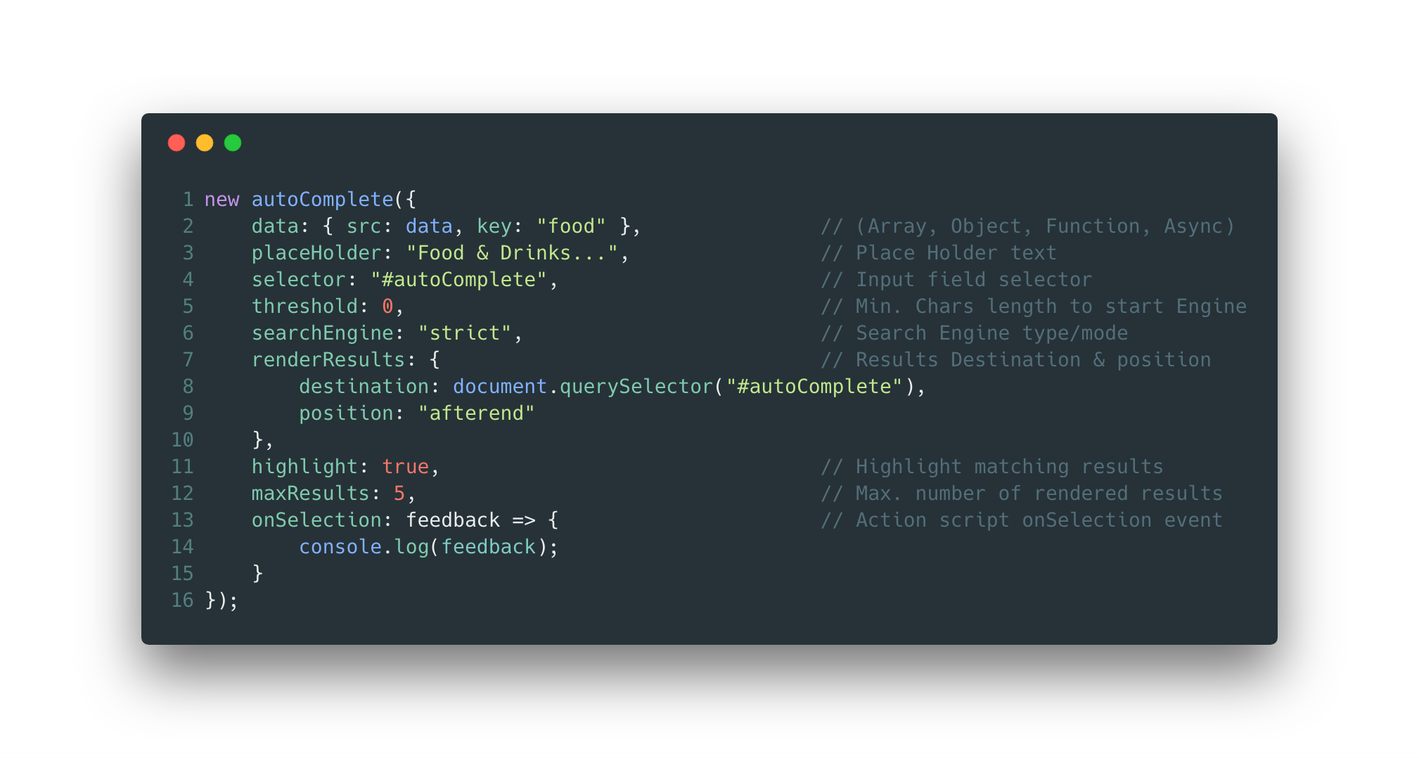
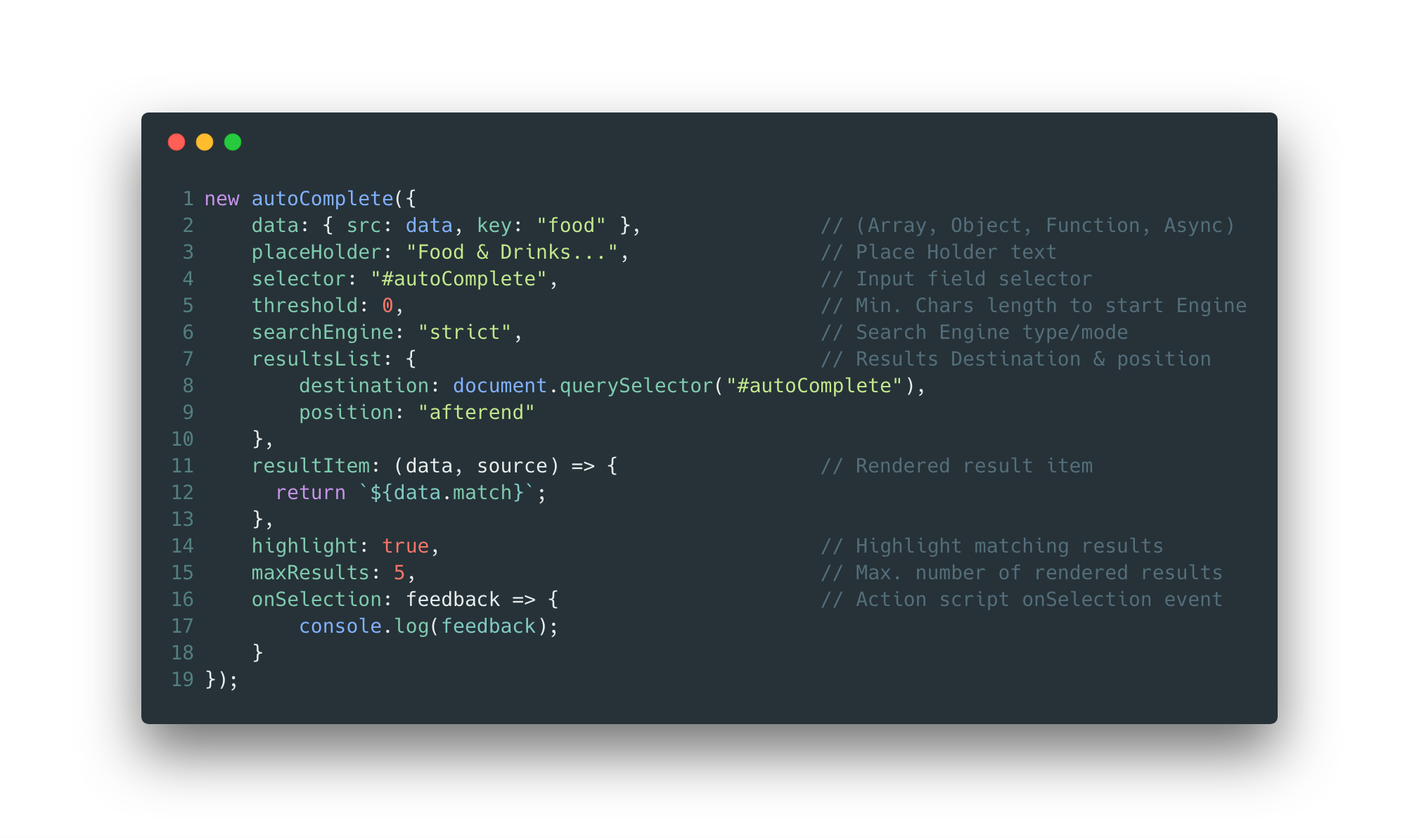
Version 3.0.0 => Release History for details

diff --git a/dist/js/autoComplete.min.js b/dist/js/autoComplete.min.js
@@ -1,1 +1,1 @@
-var a,b;a=this,b=function(){"use strict";function o(e,t){for(var n=0;n<t.length;n++){var i=t[n];i.enumerable=i.enumerable||!1,i.configurable=!0,"value"in i&&(i.writable=!0),Object.defineProperty(e,i.key,i)}}var r,a="data-result",t="autoComplete_results_list",c="autoComplete_result",n="autoComplete_highlighted",u=function(e){return"string"==typeof e?document.querySelector(e):e()},l=function(){return r.innerHTML=""},h=u,s=function(e){(r=document.createElement("ul")).setAttribute("id",t),e.destination.insertAdjacentElement(e.position,r)},d=function(e){return"<span class=".concat(n,">").concat(e,"</span>")},f=function(o,s){o.forEach(function(e,t){var n=document.createElement("li"),i=o[t].source[s]||o[t].source;n.setAttribute(a,i),n.setAttribute("class",c),n.setAttribute("tabindex","1"),n.innerHTML=o[t].match||o[t],r.appendChild(n)})},p=function(e){var n=u(e),i=r.firstChild;document.onkeydown=function(e){var t=document.activeElement;switch(e.keyCode){case 38:t!==i&&t!==n?t.previousSibling.focus():t===i&&n.focus();break;case 40:t===n&&0<r.childNodes.length?i.focus():t!==r.lastChild&&t.nextSibling.focus()}}},v=l,g=function(n,i,o,s){r.querySelectorAll(".".concat(c)).forEach(function(t){["mousedown","keydown"].forEach(function(e){t.addEventListener(e,function(t){"mousedown"!==e&&13!==t.keyCode||(i({event:t,query:u(n).value,results:o.map(function(e){return e.source}),selection:o.find(function(e){return(e.source[s]||e.source)===t.target.closest(".".concat(c)).getAttribute(a)}).source}),l())})})})};return function(){function t(e){!function(e,t){if(!(e instanceof t))throw new TypeError("Cannot call a class as a function")}(this,t),this.selector=e.selector||"#autoComplete",this.data={src:function(){return"function"==typeof e.data.src?e.data.src():e.data.src},key:e.data.key},this.searchEngine="loose"===e.searchEngine?"loose":"strict",this.threshold=e.threshold||0,this.renderResults=s({destination:e.renderResults?e.renderResults.destination:h(this.selector),position:e.renderResults?e.renderResults.position:"afterend"}),this.placeHolder=e.placeHolder,this.maxResults=e.maxResults||5,this.highlight=e.highlight||!1,this.onSelection=e.onSelection,this.init()}var e,n,i;return e=t,(n=[{key:"search",value:function(e,t){var n=this.highlight,i=t.toLowerCase();if("loose"===this.searchEngine){e=e.replace(/ /g,"");for(var o=[],s=0,r=0;r<i.length;r++){var a=i[r];s<e.length&&a===e[s]&&(a=n?d(a):a,s++),o.push(a)}return s===e.length&&o.join("")}if(i.includes(e)&&n){var c=h(this.selector).value.toLowerCase();return i.replace(c,d(c))}}},{key:"listMatchedResults",value:function(e){var n=this,i=[],o=h(this.selector).value.toLowerCase();e.filter(function(e){var t=n.search(o,e[n.data.key]||e);t&&i.push({match:t,source:e})});var t=i.slice(0,this.maxResults);return f(t,this.data.key),p(this.selector),t}},{key:"ignite",value:function(t){var n=this,i=this.selector,o=h(i),e=this.placeHolder,s=this.onSelection;e&&o.setAttribute("placeholder",e),o.onkeyup=function(){v();if(o.value.length>n.threshold&&o.value.replace(/ /g,"").length){var e=n.listMatchedResults(t);s&&g(i,s,e,n.data.key)}}}},{key:"init",value:function(){var t=this,e=this.data.src();e instanceof Promise?e.then(function(e){return t.ignite(e)}):this.ignite(e)}}])&&o(e.prototype,n),i&&o(e,i),t}()},"object"==typeof exports&&"undefined"!=typeof module?module.exports=b():"function"==typeof define&&define.amd?define(b):a.autoComplete=b();
+var a,b;a=this,b=function(){"use strict";function s(e,t){for(var n=0;n<t.length;n++){var i=t[n];i.enumerable=i.enumerable||!1,i.configurable=!0,"value"in i&&(i.writable=!0),Object.defineProperty(e,i.key,i)}}var a,u="data-result",t="autoComplete_results_list",c="autoComplete_result",n="autoComplete_highlighted",r=function(e){return"string"==typeof e?document.querySelector(e):e()},l=function(){return a.innerHTML=""},h=r,o=function(e){(a=document.createElement("ul")).setAttribute("id",t),e.destination.insertAdjacentElement(e.position,a)},f=function(e){return"<span class=".concat(n,">").concat(e,"</span>")},d=function(s,o,r){s.forEach(function(e,t){var n=document.createElement("li"),i=s[t].source[o]||s[t].source;n.setAttribute(u,i),n.setAttribute("class",c),n.setAttribute("tabindex","1"),n.innerHTML=r?r(e,n):e.match||e,a.appendChild(n)})},p=function(e){var n=r(e),i=a.firstChild;document.onkeydown=function(e){var t=document.activeElement;switch(e.keyCode){case 38:t!==i&&t!==n?t.previousSibling.focus():t===i&&n.focus();break;case 40:t===n&&0<a.childNodes.length?i.focus():t!==a.lastChild&&t.nextSibling.focus()}}},v=l,m=function(n,i,s,o){a.querySelectorAll(".".concat(c)).forEach(function(t){["mousedown","keydown"].forEach(function(e){t.addEventListener(e,function(t){"mousedown"!==e&&13!==t.keyCode||(i({event:t,query:r(n).value,results:s.map(function(e){return e.source}),selection:s.find(function(e){return(e.source[o]||e.source)===t.target.closest(".".concat(c)).getAttribute(u)}).source}),l())})})})};return function(){function t(e){!function(e,t){if(!(e instanceof t))throw new TypeError("Cannot call a class as a function")}(this,t),this.selector=e.selector||"#autoComplete",this.data={src:function(){return"function"==typeof e.data.src?e.data.src():e.data.src},key:e.data.key},this.searchEngine="loose"===e.searchEngine?"loose":"strict",this.threshold=e.threshold||0,this.resultsList=o({destination:e.resultsList?e.resultsList.destination:h(this.selector),position:e.resultsList?e.resultsList.position:"afterend"}),this.placeHolder=e.placeHolder,this.maxResults=e.maxResults||5,this.resultItem=e.resultItem,this.highlight=e.highlight||!1,this.onSelection=e.onSelection,this.init()}var e,n,i;return e=t,(n=[{key:"search",value:function(e,t){var n=this.highlight,i=t.toLowerCase();if("loose"===this.searchEngine){e=e.replace(/ /g,"");for(var s=[],o=0,r=0;r<i.length;r++){var a=i[r];o<e.length&&a===e[o]&&(a=n?f(a):a,o++),s.push(a)}return o===e.length&&s.join("")}if(i.includes(e)&&n){var u=h(this.selector).value.toLowerCase();return i.replace(u,f(u))}}},{key:"listMatchedResults",value:function(e){var n=this,i=[],s=h(this.selector).value.toLowerCase();e.filter(function(e){var t=n.search(s,e[n.data.key]||e);t&&i.push({match:t,source:e})});var t=i.slice(0,this.maxResults);return d(t,this.data.key,this.resultItem),p(this.selector),t}},{key:"ignite",value:function(t){var n=this,i=this.selector,s=h(i),e=this.placeHolder,o=this.onSelection;e&&s.setAttribute("placeholder",e),s.onkeyup=function(){v();if(s.value.length>n.threshold&&s.value.replace(/ /g,"").length){var e=n.listMatchedResults(t);o&&m(i,o,e,n.data.key)}}}},{key:"init",value:function(){var t=this,e=this.data.src();e instanceof Promise?e.then(function(e){return t.ignite(e)}):this.ignite(e)}}])&&s(e.prototype,n),i&&s(e,i),t}()},"object"==typeof exports&&"undefined"!=typeof module?module.exports=b():"function"==typeof define&&define.amd?define(b):a.autoComplete=b();

diff --git a/dist/js/autoComplete.js b/dist/js/autoComplete.js
@@ -44,14 +44,14 @@
   var highlight = function highlight(value) {
     return "<span class=".concat(select.highlight, ">").concat(value, "</span>");
   };
-  var addResultsToList = function addResultsToList(dataSrc, dataKey) {
+  var addResultsToList = function addResultsToList(dataSrc, dataKey, callback) {
     dataSrc.forEach(function (event, record) {
       var result = document.createElement("li");
       var resultValue = dataSrc[record].source[dataKey] || dataSrc[record].source;
       result.setAttribute(dataAttribute, resultValue);
       result.setAttribute("class", select.result);
       result.setAttribute("tabindex", "1");
-      result.innerHTML = dataSrc[record].match || dataSrc[record];
+      result.innerHTML = callback ? callback(event, result) : event.match || event;
       resultsList.appendChild(result);
     });
   };
@@ -127,12 +127,13 @@
       };
       this.searchEngine = config.searchEngine === "loose" ? "loose" : "strict";
       this.threshold = config.threshold || 0;
-      this.renderResults = autoCompleteView.createResultsList({
-        destination: config.renderResults ? config.renderResults.destination : autoCompleteView.getInput(this.selector),
-        position: config.renderResults ? config.renderResults.position : "afterend"
+      this.resultsList = autoCompleteView.createResultsList({
+        destination: config.resultsList ? config.resultsList.destination : autoCompleteView.getInput(this.selector),
+        position: config.resultsList ? config.resultsList.position : "afterend"
       });
       this.placeHolder = config.placeHolder;
       this.maxResults = config.maxResults || 5;
+      this.resultItem = config.resultItem;
       this.highlight = config.highlight || false;
       this.onSelection = config.onSelection;
       this.init();
@@ -183,7 +184,7 @@
           }
         });
         var list = resList.slice(0, this.maxResults);
-        autoCompleteView.addResultsToList(list, this.data.key);
+        autoCompleteView.addResultsToList(list, this.data.key, this.resultItem);
         autoCompleteView.navigation(this.selector);
         return list;
       }

diff --git a/src/models/autoComplete.js b/src/models/autoComplete.js
@@ -14,16 +14,18 @@ export default class autoComplete {
 		// Minimum characters length before engine starts rendering
 		this.threshold = config.threshold || 0;
 		// Rendered results destination
-		this.renderResults = autoCompleteView.createResultsList({
-			destination: config.renderResults
-				? config.renderResults.destination
+		this.resultsList = autoCompleteView.createResultsList({
+			destination: config.resultsList
+				? config.resultsList.destination
 				: autoCompleteView.getInput(this.selector),
-			position: config.renderResults ? config.renderResults.position : "afterend"
+			position: config.resultsList ? config.resultsList.position : "afterend"
 		});
 		// Placeholder text
 		this.placeHolder = config.placeHolder;
 		// Maximum number of results to show
 		this.maxResults = config.maxResults || 5;
+		//
+		this.resultItem = config.resultItem;
 		// Highlighting matching results
 		this.highlight = config.highlight || false;
 		// Action function on result selection
@@ -96,7 +98,7 @@ export default class autoComplete {
 		});
 		const list = resList.slice(0, this.maxResults);
 		// Rendering matching results to the UI list
-		autoCompleteView.addResultsToList(list, this.data.key);
+		autoCompleteView.addResultsToList(list, this.data.key, this.resultItem);
 		// Keyboard Arrow Navigation
 		autoCompleteView.navigation(this.selector);
 		// Returns rendered list
@@ -116,8 +118,6 @@ export default class autoComplete {
 		if (placeHolder) {
 			input.setAttribute("placeholder", placeHolder);
 		}
-		// Creates Results List
-		// autoCompleteView.createResultsList(this.renderResults);
 		// Input field handler fires an event onKeyup action
 		input.onkeyup = () => {
 			// Clear Results function holder

diff --git a/src/views/autoCompleteView.js b/src/views/autoCompleteView.js
@@ -20,14 +20,14 @@ const createResultsList = renderResults => {
 const highlight = value => `<span class=${select.highlight}>${value}</span>`;
 
 // Adding matching results to the list
-const addResultsToList = (dataSrc, dataKey) => {
+const addResultsToList = (dataSrc, dataKey, callback) => {
 	dataSrc.forEach((event, record) => {
 		const result = document.createElement("li");
 		const resultValue = dataSrc[record].source[dataKey] || dataSrc[record].source;
 		result.setAttribute(dataAttribute, resultValue);
 		result.setAttribute("class", select.result);
 		result.setAttribute("tabindex", "1");
-		result.innerHTML = dataSrc[record].match || dataSrc[record];
+		result.innerHTML = callback ? callback(event, result) : event.match || event;
 		resultsList.appendChild(result);
 	});
 };
@@ -76,10 +76,8 @@ const getSelection = (field, callback, resultsValues, dataKey) => {
 						results: resultsValues.map(record => record.source),
 						selection: resultsValues.find(value => {
 							const resValue = value.source[dataKey] || value.source;
-							return (
-								resValue === event.target.closest(`.${select.result}`)
-									.getAttribute(dataAttribute)
-							);
+							return resValue === event.target.closest(`.${select.result}`)
+								.getAttribute(dataAttribute);
 						}).source
 					});
 					// Clear Results after selection is made
@@ -97,5 +95,5 @@ export const autoCompleteView = {
 	addResultsToList,
 	navigation,
 	clearResults,
-	getSelection,
+	getSelection
 };

diff --git a/docs/demo/index.html b/docs/demo/index.html
@@ -53,7 +53,7 @@
 		<meta name="msapplication-TileColor" content="#ffffff">
 		<meta name="msapplication-TileImage" content="/ms-icon-144x144.png">
 		<meta name="theme-color" content="#ffffff">
-		<link rel="stylesheet" type="text/css" media="screen" href="https://cdn.jsdelivr.net/gh/TarekRaafat/autoComplete.js@2.1.0/dist/css/autoComplete.min.css">
+		<link rel="stylesheet" type="text/css" media="screen" href="https://cdn.jsdelivr.net/gh/TarekRaafat/autoComplete.js@3.0.0/dist/css/autoComplete.min.css">
 		<link rel="stylesheet" type="text/css" media="screen" href="./css/main.css">
 		<link href="https://fonts.googleapis.com/css?family=PT+Sans" rel="stylesheet">
 	</head>
@@ -118,7 +118,7 @@
 				</div>
 			</footer>
 		</div>
-		<script src="https://cdn.jsdelivr.net/gh/TarekRaafat/autoComplete.js@2.1.0/dist/js/autoComplete.min.js"></script>
+		<script src="https://cdn.jsdelivr.net/gh/TarekRaafat/autoComplete.js@3.0.0/dist/js/autoComplete.min.js"></script>
 		<script src="./js/index.js"></script>
 	</body>
 

diff --git a/dist/js/index.js b/dist/js/index.js
@@ -18,9 +18,12 @@ const autoCompletejs = new autoComplete({
 	searchEngine: "strict",
 	highlight: true,
 	maxResults: Infinity,
-	renderResults: {
+	resultsList: {
 		destination: document.querySelector("#autoComplete"),
 		position: "afterend"
+	},
+	resultItem: (data, source) => {
+		return `${data.match}`;
 	},
 	onSelection: feedback => {
 		const selection = feedback.selection.food;

diff --git a/docs/demo/js/index.js b/docs/demo/js/index.js
@@ -18,9 +18,12 @@ const autoCompletejs = new autoComplete({
 	searchEngine: "strict",
 	highlight: true,
 	maxResults: Infinity,
-	renderResults: {
+	resultsList: {
 		destination: document.querySelector("#autoComplete"),
 		position: "afterend"
+	},
+	resultItem: (data, source) => {
+		return `${data.match}`;
 	},
 	onSelection: feedback => {
 		const selection = feedback.selection.food;

diff --git a/docs/README.md b/docs/README.md
@@ -14,7 +14,7 @@
 
 <h1>autoComplete.js</h1>
 
-> Simple autocomplete pure vanilla Javascript library. <a href="https://tarekraafat.github.io/autoComplete.js/demo/" target="\_blank">:rocket: Live Demo</a> **v2.1**
+> Simple autocomplete pure vanilla Javascript library. <a href="https://tarekraafat.github.io/autoComplete.js/demo/" target="\_blank">:rocket: Live Demo</a> **v3.0**
 
 autoComplete.js is a simple pure vanilla Javascript library that's progressively designed for speed, high versatility and seamless integration with wide range of projects & systems, made for users and developers in mind.
 
@@ -67,13 +67,13 @@ npm run build
 `CSS`
 
 ```html
-<link rel="stylesheet" href="https://cdn.jsdelivr.net/gh/TarekRaafat/autoComplete.js@2.1.0/dist/css/autoComplete.min.css">
+<link rel="stylesheet" href="https://cdn.jsdelivr.net/gh/TarekRaafat/autoComplete.js@3.0.0/dist/css/autoComplete.min.css">
 ```
 
 `JS`
 
 ```html
-<script src="https://cdn.jsdelivr.net/gh/TarekRaafat/autoComplete.js@2.1.0/dist/js/autoComplete.min.js"></script>
+<script src="https://cdn.jsdelivr.net/gh/TarekRaafat/autoComplete.js@3.0.0/dist/js/autoComplete.min.js"></script>
 ```
 
 -   <img src="https://cdn0.iconfinder.com/data/icons/HTML5/512/HTML_Logo.png" alt="HTML" width="40px"> HTML Local load
@@ -115,7 +115,7 @@ const autoComplete = require("@tarekraafat/autocomplete.js/dist/js/autoComplete"
 ```html
 <link rel="stylesheet" href="./css/autoComplete.css">
 OR
-<link rel="stylesheet" href="https://cdn.jsdelivr.net/gh/TarekRaafat/autoComplete.js@2.1.0/dist/css/autoComplete.min.css">
+<link rel="stylesheet" href="https://cdn.jsdelivr.net/gh/TarekRaafat/autoComplete.js@3.0.0/dist/css/autoComplete.min.css">
 ```
 
 2.  Assign the default `id` value `"autoComplete"` to the desired input field or use any custom `id/class` and configure the API selector accordingly in `Step 4`
@@ -130,7 +130,7 @@ OR
 <script src="./js/autoComplete.min.js"></script>
 <script src="./js/index.js"></script>
 OR
-<script src="https://cdn.jsdelivr.net/gh/TarekRaafat/autoComplete.js@2.1.0/dist/js/autoComplete.min.js"></script>
+<script src="https://cdn.jsdelivr.net/gh/TarekRaafat/autoComplete.js@3.0.0/dist/js/autoComplete.min.js"></script>
 <script src="./js/index.js"></script>
 ```
 
@@ -145,9 +145,12 @@ new autoComplete({
 	selector: "#autoComplete",					  // Input field selector
 	threshold: 0,								   // Min. Chars length to start
 	searchEngine: "strict",						 // Search Engine type/mode
-	renderResults: {								// Rendered results Destination & position
+	resultsList: {							  	// Rendered results Destination & position
 		destination: document.querySelector("#autoComplete"),
 		position: "afterend"
+	},
+	resultItem: (data, source) => {				 // Rendered result item
+		return `${data.match}`;
 	},
 	highlight: true,								// Highlight matching results
 	maxResults: 5,								  // Max. number of rendered results
@@ -161,17 +164,18 @@ new autoComplete({
 
 <br>
 
-| Features        | Description                                                      | Values                                                                                                                                                                                                                                                              | Default                                                                        |
-| --------------- | ---------------------------------------------------------------- | ------------------------------------------------------------------------------------------------------------------------------------------------------------------------------------------------------------------------------------------------------------------- | ------------------------------------------------------------------------------ |
-| `data`          | Data Source & Data Key                                           | **1- src**: <br> - `Array` of `Strings` / `Objects`<br>**OR**<br> - `Function` => `Array` of `Strings` / `Objects` <br> **2- key**: <br> **Required** if `src` is `Object`, it will point to `key` in the object for the search                                     | **REQUIRED** any NOT both                                                      |
-| `placeHolder`   | Place Holder text                                                | `String`                                                                                                                                                                                                                                                            | Blank / Empty                                                                  |
-| `selector`      | Input field selector                                             | **-** `String` `id`/`class` <br>**OR**<br> **-** `Function` ( ) =>  `document.querySelector("")`                                                                                                                                                                    | `"#autoComplete"`                                                              |
-| `threshold`     | Minimum characters length before engine starts rendering results | `Number`                                                                                                                                                                                                                                                            | `0`                                                                            |
-| `searchEngine`  | Search Engine Type/Mode                                          | **-** `"strict"` lowerCase string<br>**OR**<br>**-** `"loose"` lowerCase string                                                                                                                                                                                     | `"strict"`                                                                     |
-| `renderResults` | Rendered results destination & position                          | **-** `Object` with 2 methods<br> 1- destination: `document.querySelector("#div")`<br> 2- position:<br> `"beforebegin"`, `"afterbegin"`, `"beforeend"`, `"afterend"` lowerCase string <br>**OR**<br>**-** `Function` ( ) => `{destination: "...", position: "..."}` | `{destination: document.querySelector("#autoComplete"), position: "afterend"}` |
-| `highlight`     | Highlight matching results                                       | `Boolean`                                                                                                                                                                                                                                                           | `false`                                                                        |
-| `maxResults`    | Maximum number of displayed results                              | `Number`                                                                                                                                                                                                                                                            | `5`                                                                            |
-| `onSelection`   | Action script onSelection event                                  | `Function`                                                                                                                                                                                                                                                          | No Action                                                                      |
+| Features       | Description                                                      | Values                                                                                                                                                                                                                                                              | Default                                                                        |
+| -------------- | ---------------------------------------------------------------- | ------------------------------------------------------------------------------------------------------------------------------------------------------------------------------------------------------------------------------------------------------------------- | ------------------------------------------------------------------------------ |
+| `data`         | Data Source & Data Key                                           | **1- src**: <br> - `Array` of `Strings` / `Objects`<br>**OR**<br> - `Function` => `Array` of `Strings` / `Objects` <br> **2- key**: <br> **Required** if `src` is `Object`, it will point to `key` in the object for the search                                     | **REQUIRED** any NOT both                                                      |
+| `placeHolder`  | Place Holder text                                                | `String`                                                                                                                                                                                                                                                            | Blank / Empty                                                                  |
+| `selector`     | Input field selector                                             | **-** `String` `id`/`class` <br>**OR**<br> **-** `Function` ( ) =>  `document.querySelector("")`                                                                                                                                                                    | `"#autoComplete"`                                                              |
+| `threshold`    | Minimum characters length before engine starts rendering results | `Number`                                                                                                                                                                                                                                                            | `0`                                                                            |
+| `searchEngine` | Search Engine Type/Mode                                          | **-** `"strict"` lowerCase string<br>**OR**<br>**-** `"loose"` lowerCase string                                                                                                                                                                                     | `"strict"`                                                                     |
+| `resultsList`  | Rendered results list destination & position                     | **-** `Object` with 2 methods<br> 1- destination: `document.querySelector("#div")`<br> 2- position:<br> `"beforebegin"`, `"afterbegin"`, `"beforeend"`, `"afterend"` lowerCase string <br>**OR**<br>**-** `Function` ( ) => `{destination: "...", position: "..."}` | `{destination: document.querySelector("#autoComplete"), position: "afterend"}` |
+| `resultItem`   | Rendered result Item                                             | **-** `Function` (data, source) => `String` <br> **-** `data.match` has to be used for **Highlighted** result                                                                                                                                                       | `data.match`                                                                   |
+| `highlight`    | Highlight matching results                                       | `Boolean`                                                                                                                                                                                                                                                           | `false`                                                                        |
+| `maxResults`   | Maximum number of displayed results                              | `Number`                                                                                                                                                                                                                                                            | `5`                                                                            |
+| `onSelection`  | Action script onSelection event                                  | `Function`                                                                                                                                                                                                                                                          | No Action                                                                      |
 
 3.  That's it, you're ready to go!
 
@@ -254,6 +258,7 @@ Check out <a href="#/releases?id=versioning">Releases</a> Information :sparkles:
 -   [ ] No matches found response & text
 -   [ ] Inline autocomplete nearest result
 -   [ ] Centralize Default values holder for easy access
+-   [x] API for Rendered result item customization
 
 * * *
 

diff --git a/README.md b/README.md
@@ -19,7 +19,7 @@
 <br>
 <br>
 
-> Simple autocomplete pure vanilla Javascript library. <a href="https://tarekraafat.github.io/autoComplete.js/demo/" target="\_blank">:rocket: Live Demo</a> **v2.1**
+> Simple autocomplete pure vanilla Javascript library. <a href="https://tarekraafat.github.io/autoComplete.js/demo/" target="\_blank">:rocket: Live Demo</a> **v3.0**
 
 autoComplete.js is a simple pure vanilla Javascript library that's progressively designed for speed, high versatility and seamless integration with wide range of projects & systems, made for users and developers in mind.
 
@@ -52,13 +52,13 @@ git clone https://github.com/TarekRaafat/autoComplete.js.git
 `CSS`
 
 ```html
-<link rel="stylesheet" href="https://cdn.jsdelivr.net/gh/TarekRaafat/autoComplete.js@2.1.0/dist/css/autoComplete.min.css">
+<link rel="stylesheet" href="https://cdn.jsdelivr.net/gh/TarekRaafat/autoComplete.js@3.0.0/dist/css/autoComplete.min.css">
 ```
 
 `JS`
 
 ```html
-<script src="https://cdn.jsdelivr.net/gh/TarekRaafat/autoComplete.js@2.1.0/dist/js/autoComplete.min.js"></script>
+<script src="https://cdn.jsdelivr.net/gh/TarekRaafat/autoComplete.js@3.0.0/dist/js/autoComplete.min.js"></script>
 ```
 
 -   <a href="https://www.npmjs.com/package/@tarekraafat/autocomplete.js">npm</a> install `(Node Package Manager)`

diff --git a/docs/releases.md b/docs/releases.md
@@ -20,12 +20,18 @@ Release flags:
 -   `[Experimental]`: Under testing and might be deprecated at any point
 -   `[Deprecated]`: Not developed / supported anymore, might be removed at any point
 -   `[Removed]`: Completely gone, no longer exists
+-   `[Changed]`: A change in the API
 
 * * *
 
 ## Release Notes
 
--   v2.1.0 :sparkles:
+-   v3.0.0 :sparkles:
+
+    -   Added API for rendered result item `resultsItem` function
+    -   `renderResults` API name changed to `resultsList` `[Changed]`
+
+-   v2.1.0
 
     -   Added support for Keyboard `(Arrow)` & `(Tab)` Navigation
     -   Selection event object returns in data feedback **(Thanks @alvaaz)**

diff --git a/docs/_coverpage.md b/docs/_coverpage.md
@@ -2,7 +2,7 @@
 	<img src="./img/autoComplete.js.svg" alt= "autoComplete.js Logo" style="padding-bottom: 50px; width: 250px;">
 </a>
 
-> Simple autocomplete pure vanilla Javascript library. <a href="https://tarekraafat.github.io/autoComplete.js/demo/" target="\_blank">Live Demo</a> **v2.1**
+> Simple autocomplete pure vanilla Javascript library. <a href="https://tarekraafat.github.io/autoComplete.js/demo/" target="\_blank">Live Demo</a> **v2.2**
 
 autoComplete.js is a simple pure vanilla Javascript library that's progressively designed for speed,<br>high versatility and seamless integration with wide range of projects & systems.
 
